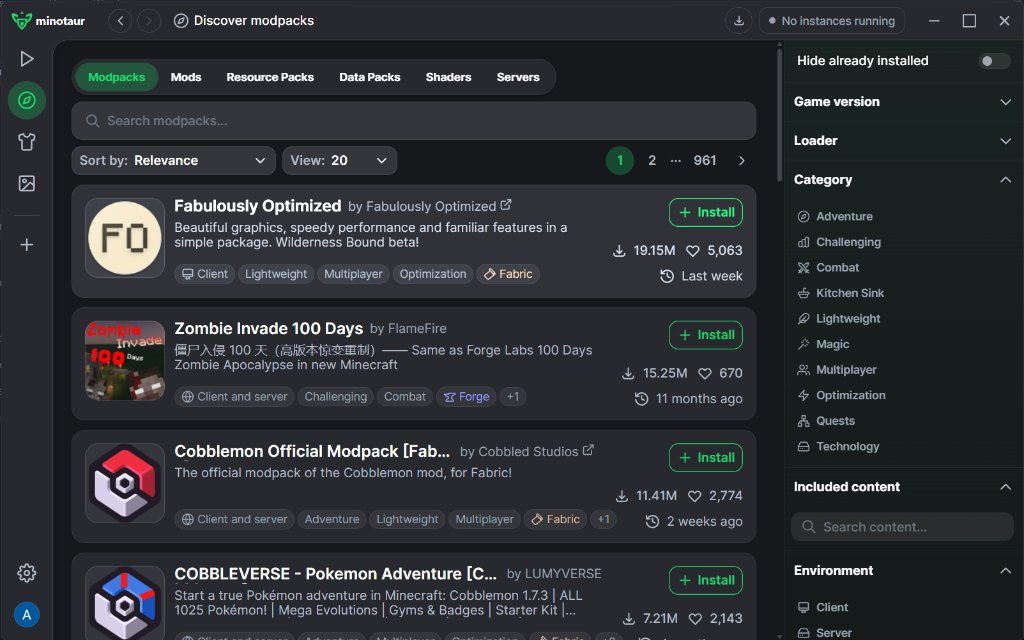
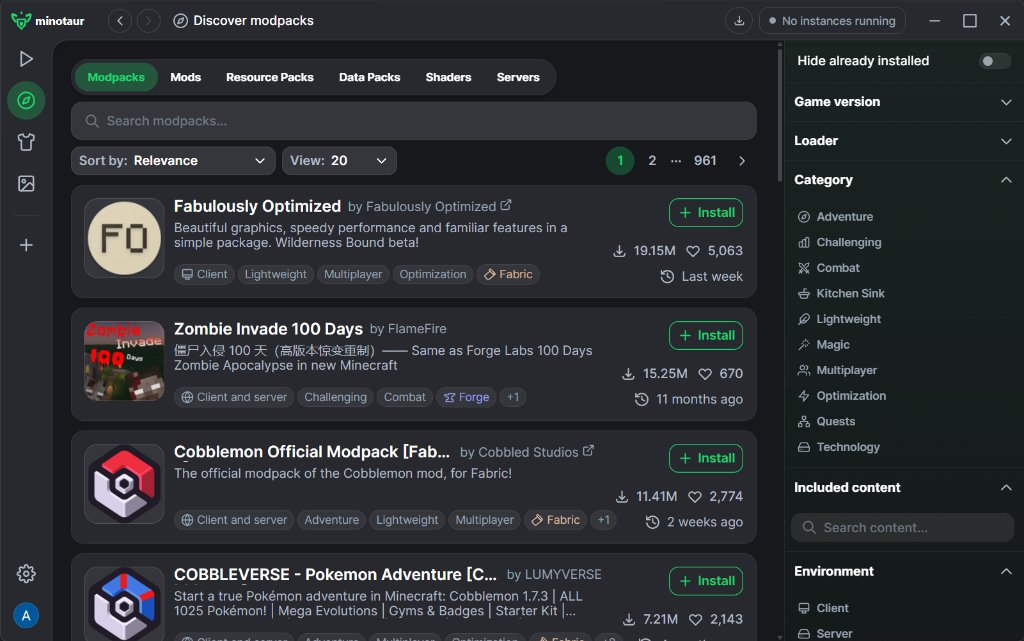
docs: add launcher screenshots to README and update discover modpacks image

diff --git a/README.md b/README.md
@@ -11,7 +11,32 @@ Built with [Tauri v2](https://tauri.app/) (Rust) and [Vue 3](https://vuejs.org/)
 [![GitHub stars](https://img.shields.io/github/stars/alvyn16/Minotaur?color=1bd96a&style=for-the-badge)](https://github.com/alvyn16/Minotaur/stargazers)
 [![GitHub issues](https://img.shields.io/github/issues/alvyn16/Minotaur?color=1bd96a&style=for-the-badge)](https://github.com/alvyn16/Minotaur/issues)
 
-[Website](https://minotaur-launcher.vercel.app) • [Download](#download--installation) • [Features](#key-features) • [Building from Source](#building-from-source) • [Architecture](#architecture)
+[Website](https://minotaur-launcher.vercel.app) • [Download](#download--installation) • [Screenshots](#screenshots) • [Features](#key-features) • [Building from Source](#building-from-source) • [Architecture](#architecture)
+
+<br />
+
+<img src="apps/landing/public/screenshots/launcher-library.png" alt="Minotaur Launcher - Instance Library" width="800" />
+
+</div>
+
+---
+
+## Screenshots
+
+<div align="center">
+
+### Instance Library
+<img src="apps/landing/public/screenshots/launcher-library.png" alt="Minotaur Launcher - Instance Library" width="750" />
+
+<br />
+
+### Discover Modpacks
+<img src="apps/landing/public/screenshots/launcher-modpacks.jpg" alt="Minotaur Launcher - Discover Modpacks" width="750" />
+
+<br />
+
+### Skin Selector
+<img src="apps/landing/public/screenshots/launcher-skins.jpg" alt="Minotaur Launcher - Skin Selector" width="750" />
 
 </div>
 
